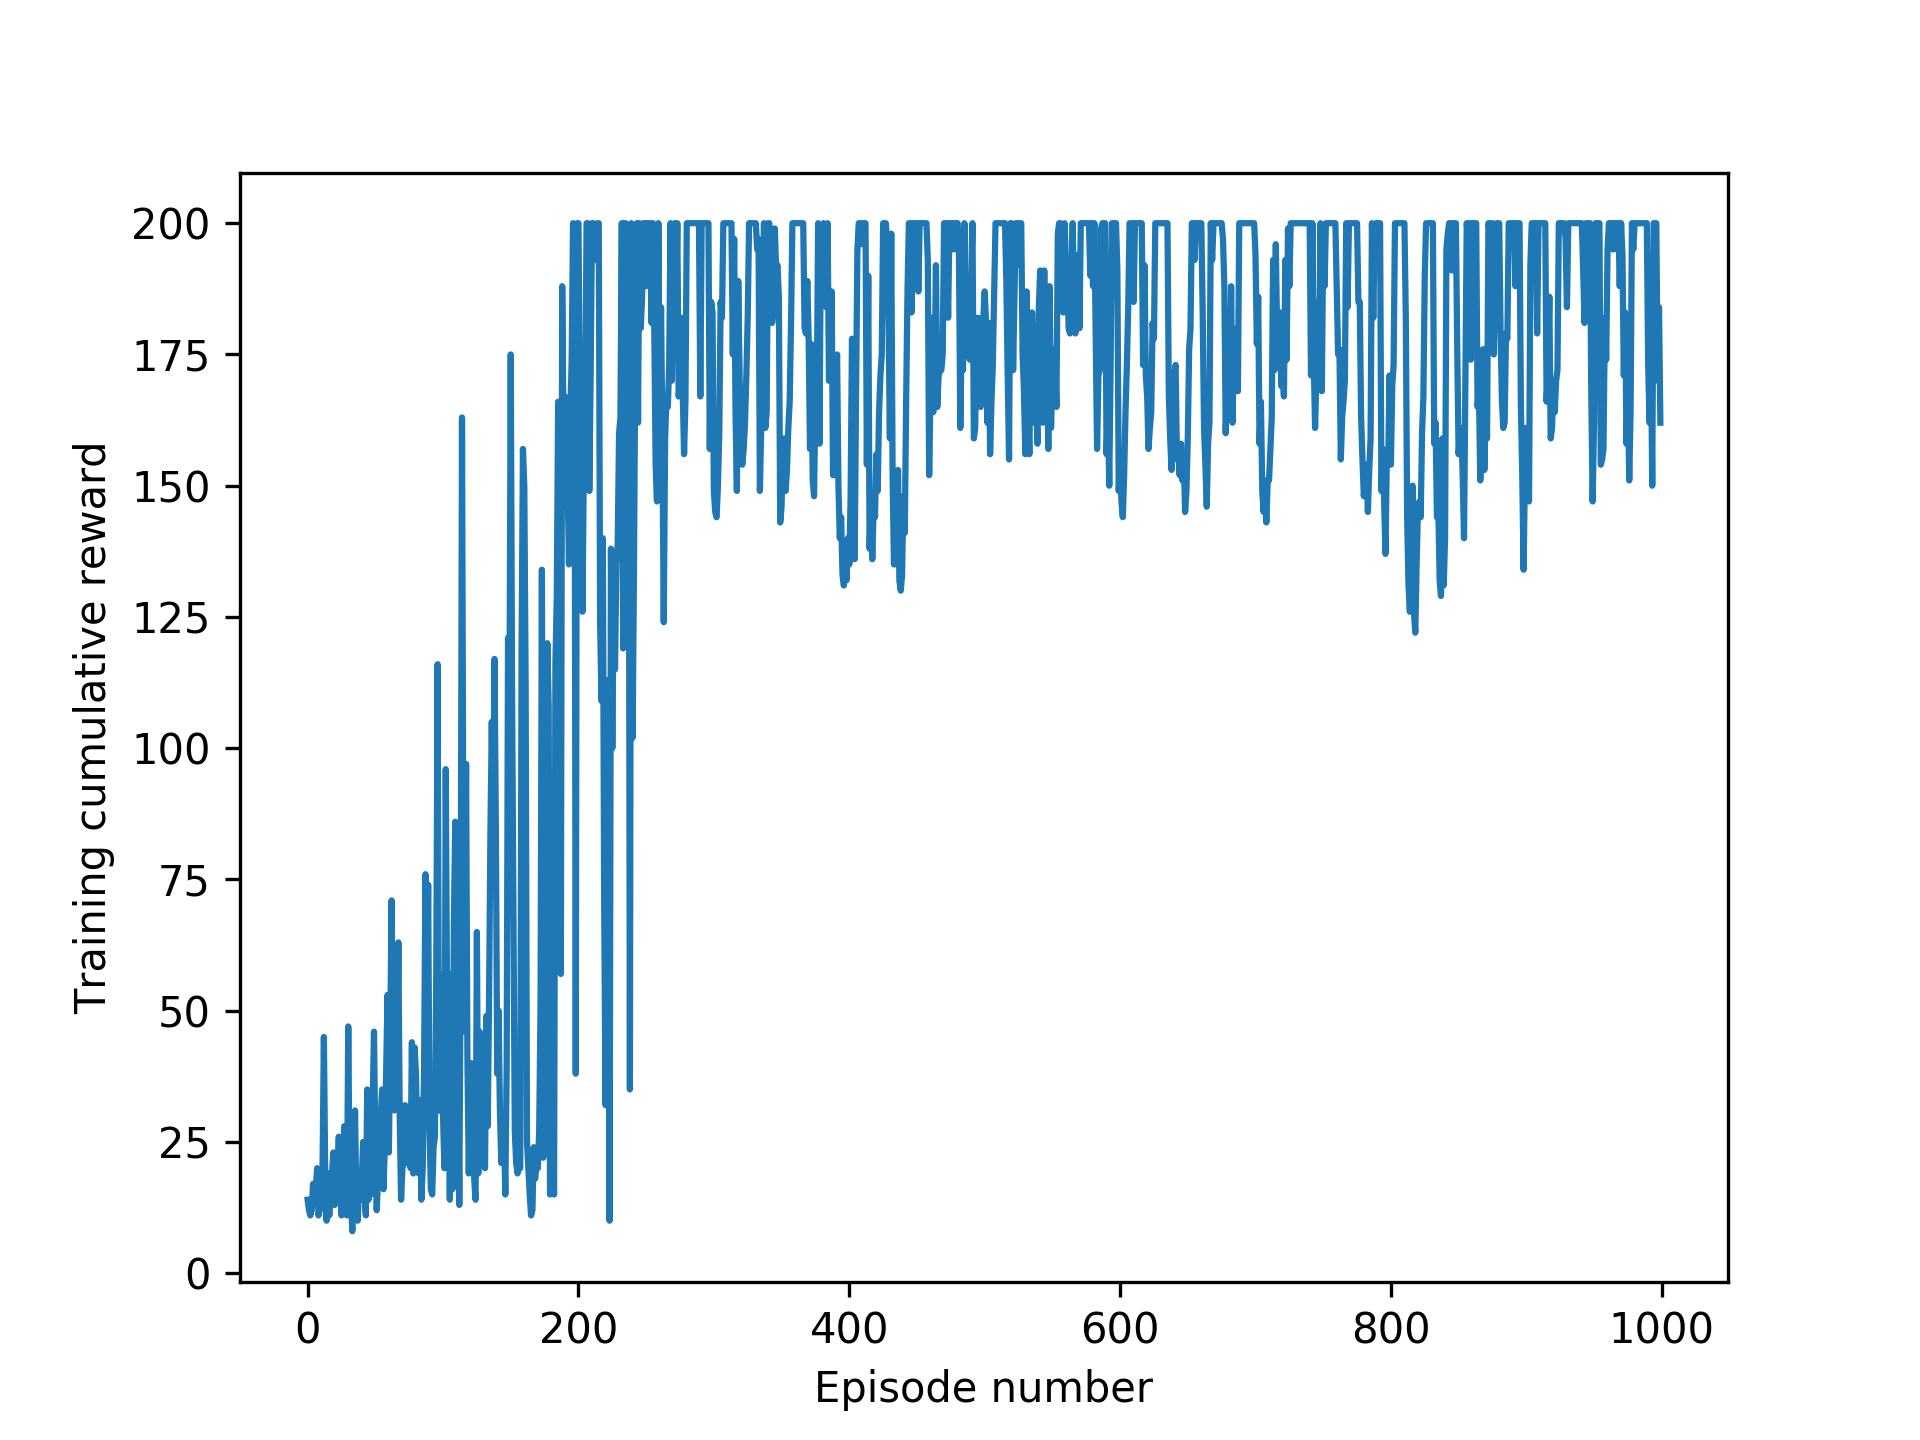
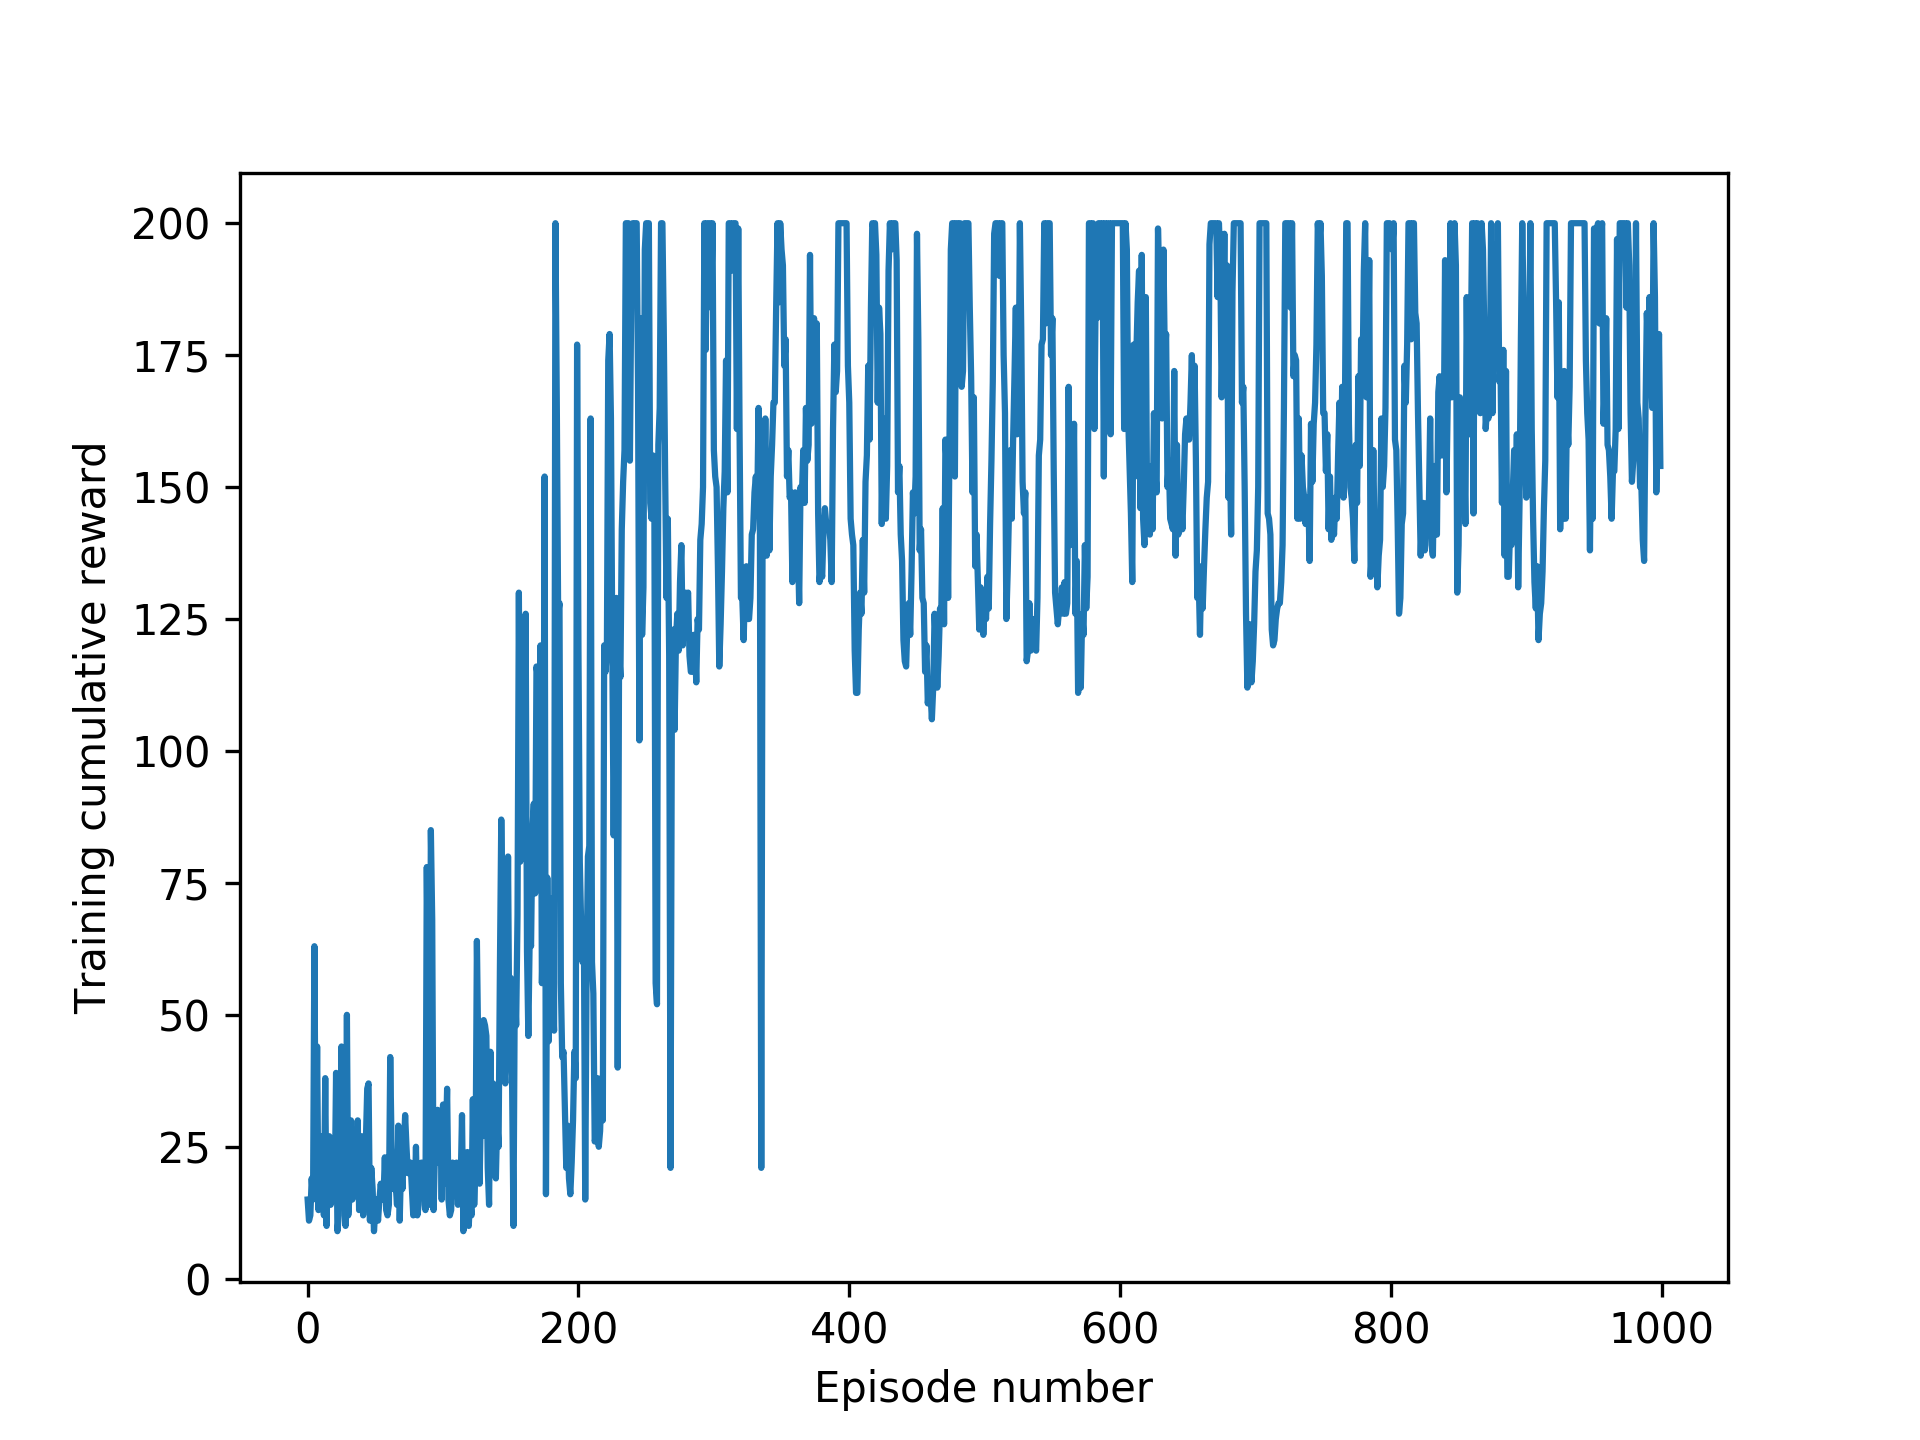
fixed experience replay

diff --git a/DQN_cartpole.py b/DQN_cartpole.py
@@ -64,12 +64,6 @@ def preprocess_state(state):
 def replay(batch_size, epsilon):
     ''' 
     Trains the network on a smaller sample selection of the runs in memory 
-    Advantages:
-    - reduces correlation between experiences (random selection from the memory buffer)
-    + avoid overfitting
-    - creates an input dataset stable enough for training
-    - increases learning speed because we train on a smaller dataset
-    - reuses past transitions to avoid catastrophic forgetting
     '''
     x_batch, y_batch = [], []
     
@@ -79,16 +73,18 @@ def replay(batch_size, epsilon):
     # Extract informations from each batch
     for state, action, reward, next_state, done in batch:
         y_target = model.predict(state) # size: (1 x 2)
-        # update the index of the action taken in this batch
+        # update the Q value for this state
         if done:                # the target is the reward
             y_target[0][action] = reward  
         else:                   # predict the future discounted reward
             y_target[0][action] = reward + gamma * np.max(model.predict(next_state)[0])
+        # print(y_target[0])
+
         x_batch.append(state[0])
         y_batch.append(y_target[0])
     
     X = np.array(x_batch)  # size: (64 x 4)
-    y = np.array(y_batch)  # size: (64 x 4)
+    y = np.array(y_batch)  # size: (64 x 2)
     model.fit(X, y, batch_size=len(x_batch), verbose=0)
 
 
@@ -108,13 +104,13 @@ for episode in range(n_train_episodes):
         memory.append((current_state, action, reward, next_state, done))
         current_state = next_state
         episode_rewards += reward
+        replay(batch_size, epsilon)
 
         if done:
             print('Episode: {:d}/{:d} | cumulative reward: {:.0f} | epsilon: {:.2f}'.format(episode, n_train_episodes, episode_rewards, epsilon))
             break
 
     rewards.append(episode_rewards)
-    replay(batch_size, epsilon)
     epsilon = update_epsilon(epsilon)
 
 # PLOT RESULTS
